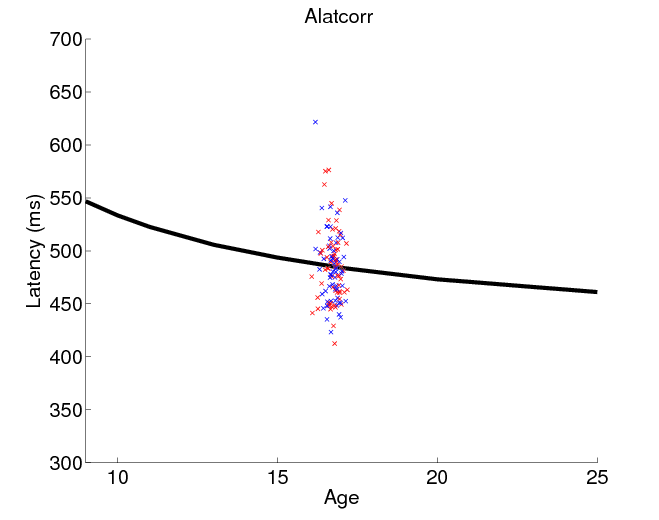
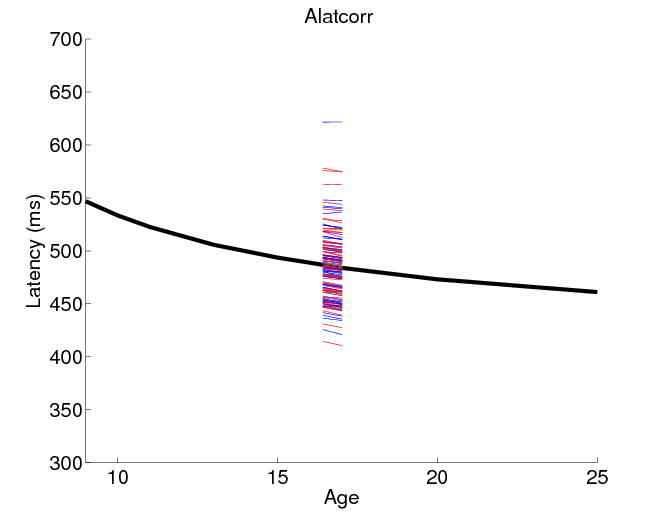
dash plot is actual slope for +/- .3 of the age

Changed region(s): [[0.4552, 0.3692, 0.5463, 0.6769], [0.4856, 0.3077, 0.5159, 0.3385], [0.4856, 0.2154, 0.5159, 0.2462]]

diff --git a/ROIHLM/plotParallel.m b/ROIHLM/plotParallel.m
@@ -1,8 +1,9 @@
 % big title and plot
 set(0, 'DefaultAxesFontSize',20)
-invAgeC     = [ 0.051 0.040 0.031 0.024 0.017 0.012 0.007 0.003 -0.001 -0.004 -0.007 -0.010 -0.012 -0.014 -0.016 -0.018 -0.020];
 % 9:26-16.726
 AgeC        = [-7.726 -6.726 -5.726 -4.726 -3.726 -2.726 -1.726 -0.726 0.274 1.274 2.274 3.274 4.274 5.274 6.274 7.274 8.274 ]; 
+% 1./[9:26] - 1/16.726
+invAgeC     = [ 0.051 0.040 0.031 0.024 0.017 0.012 0.007 0.003 -0.001 -0.004 -0.007 -0.010 -0.012 -0.014 -0.016 -0.018 -0.020];
 AgeCsq      = AgeC.^2;
 
 
@@ -114,10 +115,12 @@ for i=1:length(files)
       end
    end
 
+   xplot_limLab  = [-.3 .3]+16.72;
    % set mean, and get middle term for sq
    if(regexp(name,'invage'))
       yaxis_mean = intAndSlope(1,meanIntIdx) + invAgeC * intAndSlope(1,meanSlopeIdx);
       xplot      = invAgeC;
+      xplot_lim  = 1./(xplot_limLab) - 1/16.72;
 
    elseif(regexp(name,'ageCsq'))
           bIdx   = find(cellfun(@isempty, strfind(headerCell{:},'ebagec')) ~= 1);
@@ -126,9 +129,11 @@ for i=1:length(files)
       meanbIdx=meanbIdx(1);
       yaxis_mean = AgeCsq * intAndSlope(1,meanSlopeIdx) + AgeC * intAndSlope(1,meanbIdx) + intAndSlope(1,meanIntIdx);
       xplot      = AgeCsq;
+      xplot_lim  = (xplot_limLab-16.72).^2
    else
       yaxis_mean = intAndSlope(1,meanIntIdx) + AgeC* intAndSlope(1,meanSlopeIdx);
       xplot      = AgeC;
+      xplot_lim  = xplot_limLab-16.72
    end
 
 
@@ -204,13 +209,24 @@ for i=1:length(files)
    for i=1:length(intAndSlope)
     % add a little random jitter
     %jitter=(randi(12,1,1) - 6)*1/24;  % random [-.25 .. +.25] 
-    jitter=randn(1,1,1)/4;  % random [-.25 .. +.25] 
+    jitter=randn(1,1,1)/4;  % normally distributed around 1, /4
 
     color = 'r';                                    % everyone is red
     if (intAndSlope(i,sexIdx) == 1); color='b'; end % unless male, then blue
     
     % plot this person
-    plot(16.7+jitter, intAndSlope(i,intIdx), ['x' color]);
+    %plot(16.7+jitter, intAndSlope(i,intIdx), ['x' color]);
+    %plot(16.7, intAndSlope(i,intIdx), ['x' color]);
+    % make a dash
+    %plot([16.6,16.8], [1,1].*intAndSlope(i,intIdx), ['-' color]);
+
+    % plot this person for only a very small bit
+    yaxis =  xplot_lim * intAndSlope(i,sloIdx)  + intAndSlope(i,intIdx);
+    % extra term for square
+    if(type=='agecsq')
+       yaxis = yaxis + (xplot_limLab-16.72) * intAndSlope(i,bIdx);   
+    end
+    plot(xplot_limLab, yaxis, color);
    end
 
    hgexport(fig,['imgs_parallel/9-25-meanWithDash-' r_name '.eps'])
